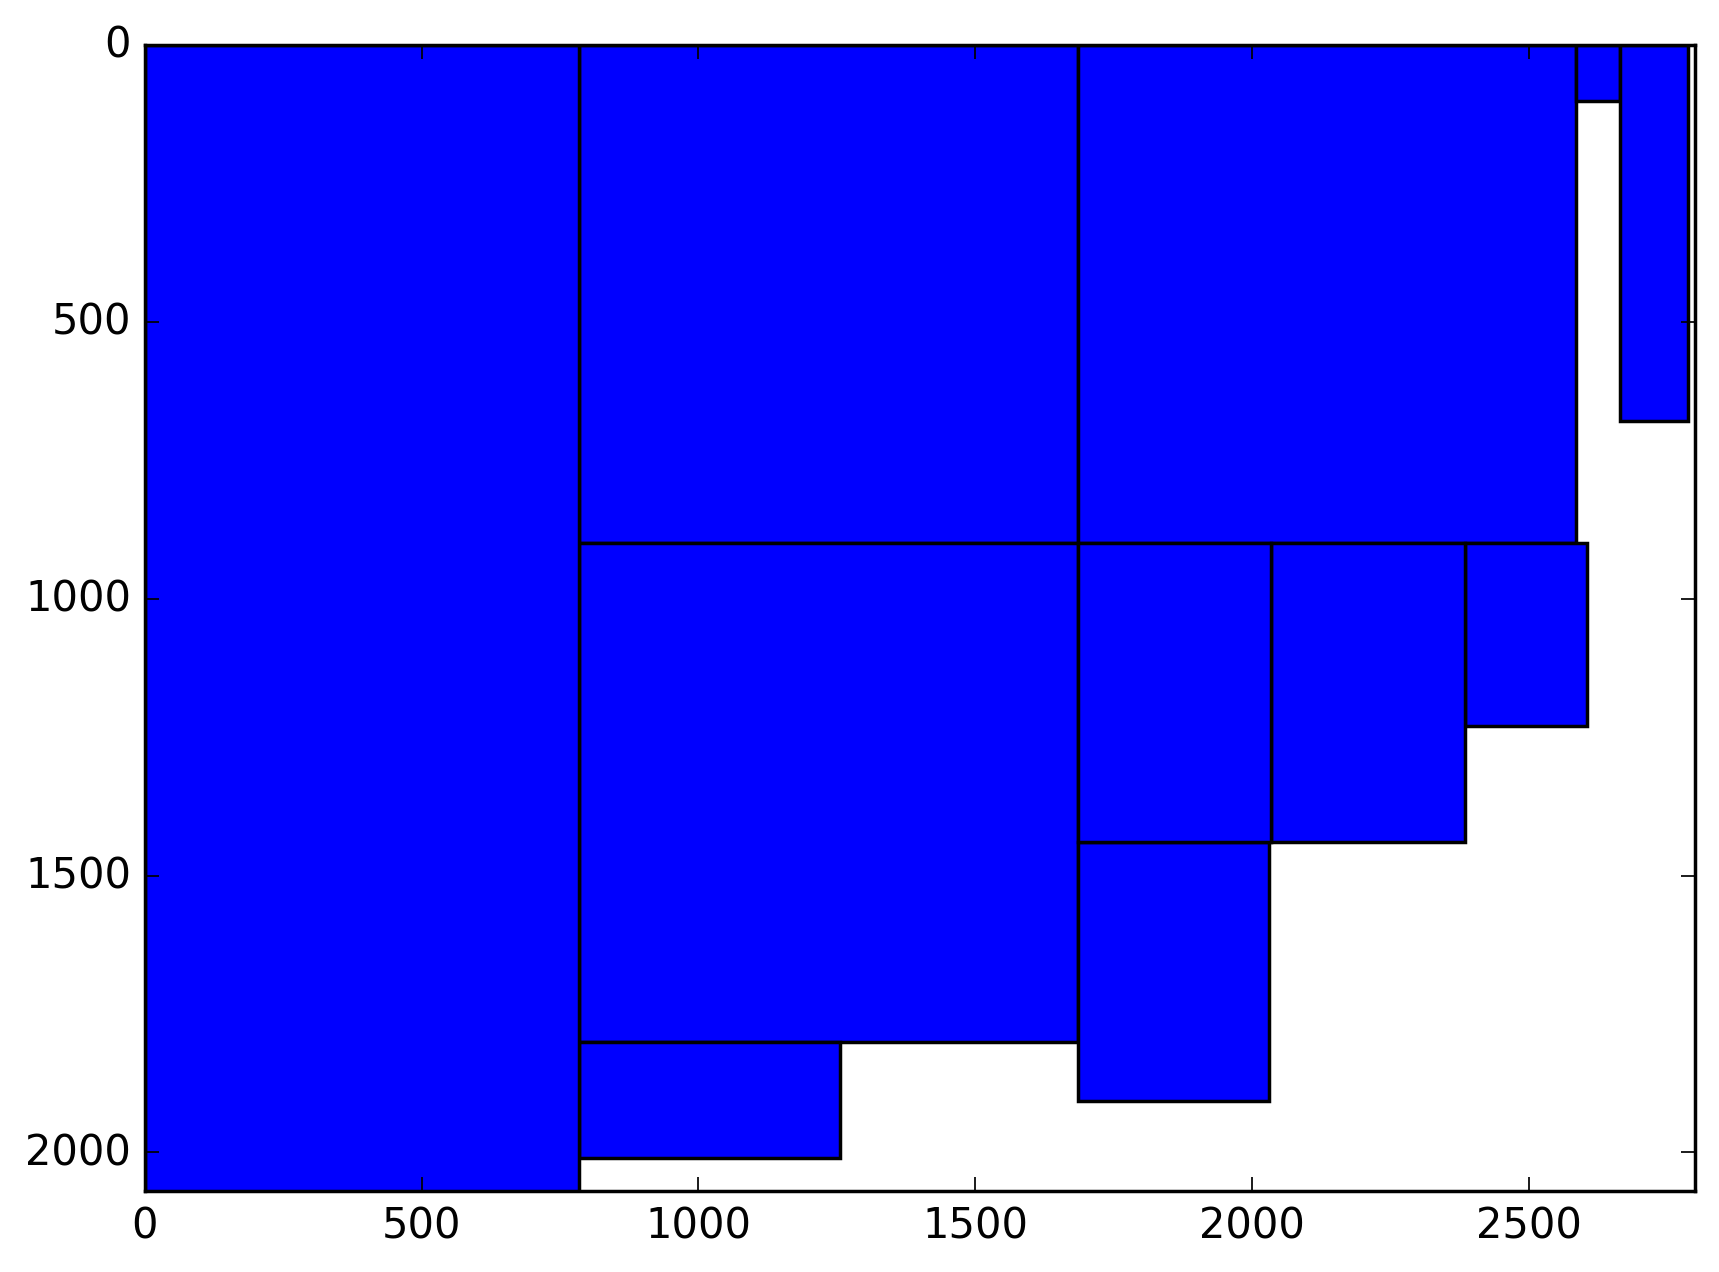
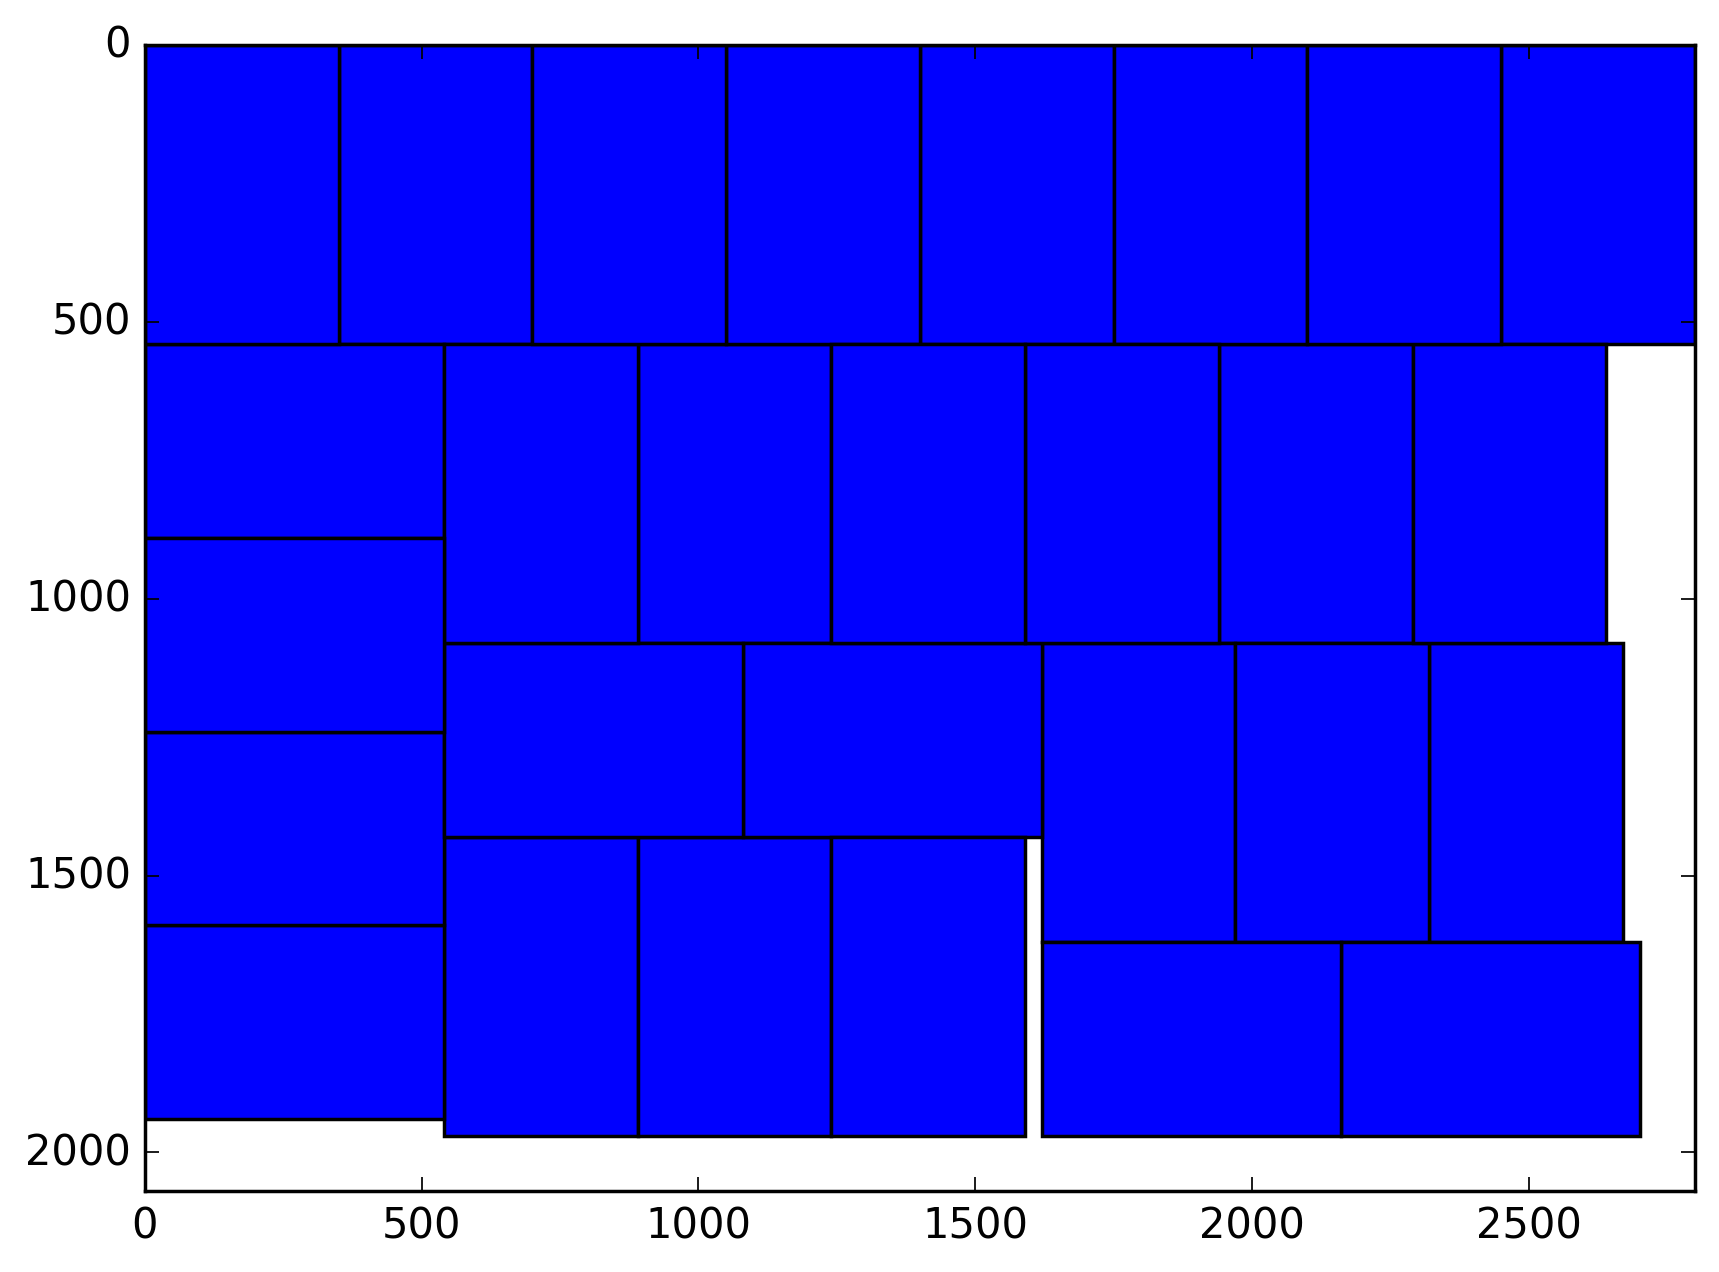
rotation included in genotype

diff --git a/src/genetic/decode_functions.py b/src/genetic/decode_functions.py
@@ -15,13 +15,9 @@ class Decoder:
     def get_result(self, rect_order, rect_rotation):
         rect_sizes = self.rect_sizes
         rectangles = []
-        points_list = [[], [], []]
-        rectangles.append(Rectangle(0., 0., 0. + rect_sizes[rect_order[0]][0],
-                                    0. + rect_sizes[rect_order[0]][1]))
+        points_list = [[(0, 0)], [], []]
 
-        points_list = update_points_list(points_list, rectangles[0])
-
-        for i in rect_order[1:]:
+        for i in rect_order:
             added = False
             for point in points_list[0] + points_list[1] + points_list[2]:
                 if not added:
@@ -35,6 +31,8 @@ class Decoder:
                         rectangles.append(new_rectangle)
                         points_list = update_points_list(points_list, new_rectangle)
                         added = True
+                        for point_list in points_list:
+                            if point in point_list: point_list.remove(point)
             if not added:
                 rectangles.append(0)
         return rectangles
@@ -55,6 +53,6 @@ if __name__ == "__main__":
     decoder = Decoder(sizes)
 
     rect_list = decoder(order, rotations)
-    save_rect_list_to_file(rect_list, order, sizes)
+    save_rect_list_to_file(rect_list, order, sizes, rotations)
 
     plot_solution()

diff --git a/src/utils/file_functions.py b/src/utils/file_functions.py
@@ -11,25 +11,25 @@ def get_sizes(sizes_file='../maleplyty.txt'):
     return data
 
 
-def rect_to_line(rect, size):
+def rect_to_line(rect, size, rotation):
     if rect:
-        return '{} {} {} {} {}\n'.format(int(rect.xmax - rect.xmin),
-                                         int(rect.ymax - rect.ymin),
+        return '{} {} {} {} {}\n'.format(int(int(size[0])),
+                                         int(int(size[1])),
                                          int(rect.xmin),
                                          int(rect.ymin),
-                                         0)
+                                         rotation)
     else:
-        return '{} {} {} {} {}\n'.format(int(size[0]), int(size[1]), -1, -1, 0)
+        return '{} {} {} {} {}\n'.format(int(size[0]), int(size[1]), -1, -1, rotation)
 
 
-def save_rect_list_to_file(rect_list, order, sizes, output_file='../out.txt'):
+def save_rect_list_to_file(rect_list, order, sizes, rotations, output_file='../out.txt'):
     size = fit_function(rect_list)
     print size
     order = list(order)
     with open(output_file, 'w') as f:
         f.write(str(size) + '\n')
         for i in range(len(order)):
-            f.write(rect_to_line(rect_list[order.index(i)], sizes[i]))
+            f.write(rect_to_line(rect_list[order.index(i)], sizes[i], rotations[i]))
 
 
 

diff --git a/src/genetic/Individual.py b/src/genetic/Individual.py
@@ -17,6 +17,9 @@ class Individual:
             i = random.randint(0, self.genotype_size - 1)
             j = random.randint(0, self.genotype_size - 1)
             self.genotype[i], self.genotype[j] = self.genotype[j], self.genotype[i]
+        for i in range(self.genotype_size):
+            if self.p_mut > random.random():
+                self.rotations[i] = int(not bool(self.rotations[i]))
 
     def calculate_fitness(self):
         self.fit_val = self.fit_fun(self.decoder(self.genotype, self.rotations))

diff --git a/src/main.py b/src/main.py
@@ -42,13 +42,13 @@ def run_algorithm(p_cross, p_mut):
 
 def main():
 
-    order, rotations = run_algorithm(p_cross=0.5, p_mut=0.1)
+    order, rotations = run_algorithm(p_cross=0.4, p_mut=0.05)
     sizes = get_sizes()
 
     decoder = Decoder(sizes)
 
     rect_list = decoder(order, rotations)
-    save_rect_list_to_file(rect_list, order, sizes)
+    save_rect_list_to_file(rect_list, order, sizes, rotations)
 
 
 

diff --git a/src/utils/Rectangle.py b/src/utils/Rectangle.py
@@ -20,11 +20,7 @@ def create_rectangle(point, size, rotation):
 def collide(a, b):
     dx = min(a.xmax, b.xmax) - max(a.xmin, b.xmin)
     dy = min(a.ymax, b.ymax) - max(a.ymin, b.ymin)
-    if (dx > 0) and (dy > 0):
-        return True
-    else:
-        return False
-
+    return (dx > 0) and (dy > 0)
 
 def outside_big_rect(new_rectangle):
     return new_rectangle.xmax > XMAX or new_rectangle.ymax > YMAX
